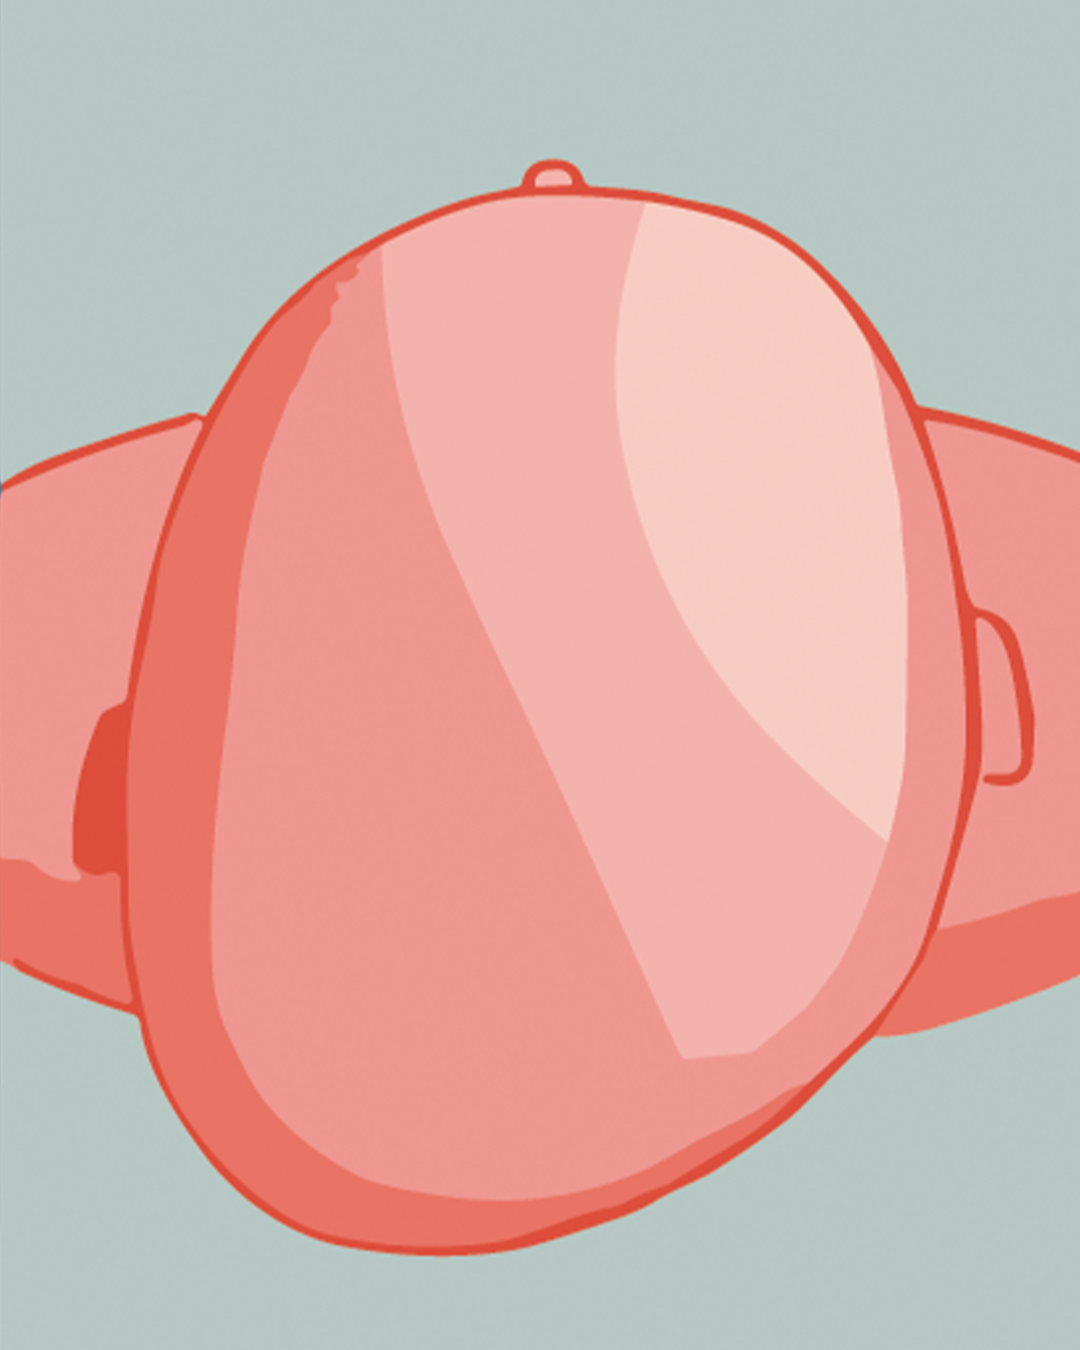
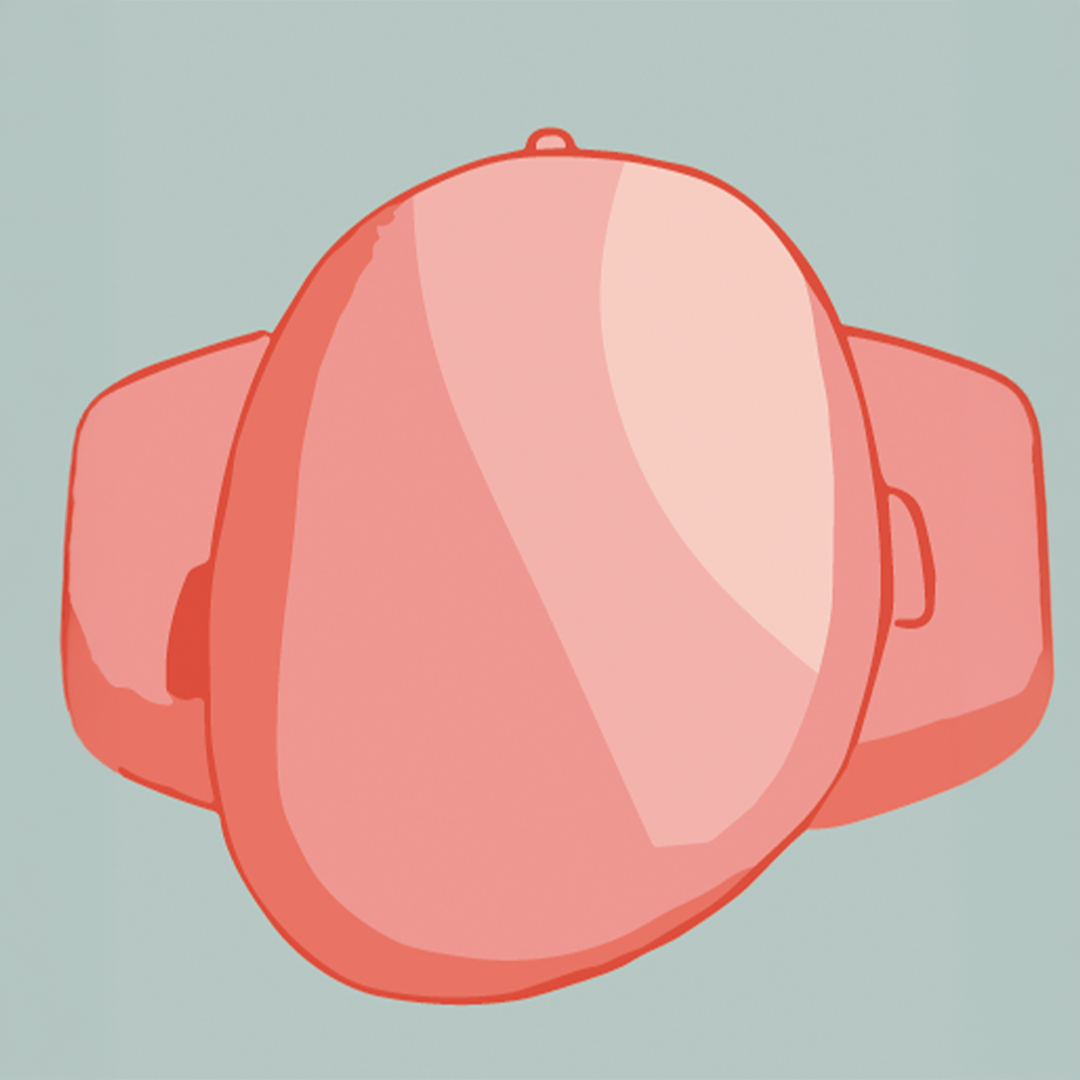
.

Changed region(s): [[0.0, 0.1222, 0.4889, 0.9472], [0.5194, 0.1222, 1.0, 0.9167], [0.5194, 0.6111, 0.55, 0.6417]]

diff --git a/src/components/Tratamentos.jsx b/src/components/Tratamentos.jsx
@@ -10,18 +10,18 @@ const CARDS = [
     desc: 'Diagnóstico preciso e tratamento especializado para as duas condições mais comuns nos primeiros meses de vida — com escaneamento 3D e plano individualizado.',
   },
   {
+    to: '/intervencao-precoce',
+    tag: 'Desenvolvimento infantil',
+    badge: '0 — 3 anos',
+    title: 'Estimulação Precoce',
+    desc: 'Acompanhamento especializado para bebês e crianças com atraso ou risco de atraso no desenvolvimento neuropsicomotor — com participação ativa da família.',
+  },
+  {
     to: '/consultoria-do-sono',
     tag: 'Para a família toda',
     badge: '0 — 5 anos',
     title: 'Consultoria do Sono',
     desc: 'Orientação especializada para construir rotinas de sono saudáveis e autônomas, respeitando o ritmo e a fase do seu bebê — sem métodos rígidos.',
-  },
-  {
-    to: '/intervencao-precoce',
-    tag: 'Desenvolvimento infantil',
-    badge: '0 — 3 anos',
-    title: 'Intervenção Precoce',
-    desc: 'Acompanhamento especializado para bebês e crianças com atraso ou risco de atraso no desenvolvimento neuropsicomotor — com participação ativa da família.',
   },
 ]
 

diff --git a/src/components/Servico2.jsx b/src/components/Servico2.jsx
@@ -11,9 +11,9 @@ const STEPS = [
 
 const HIGHLIGHTS = [
   'Confeccionada em tecnologia 3D — maior precisão que órteses convencionais.',
-  'Mais leve e ventilada — mais conforto para o bebê durante o uso.',
+  'Mais leve e ventilada, com espuma interna macia e de alta qualidade — mais conforto para o bebê durante o uso.',
   'Escaneamento 3D a cada 3 semanas para monitorar a evolução com dados exatos.',
-  'Única profissional da Bahia a oferecer o tratamento completo com essa tecnologia.',
+  'Única profissional da Bahia a oferecer o tratamento completo com a órtese Cmoon',
 ]
 
 export function Servico2() {
@@ -23,7 +23,7 @@ export function Servico2() {
         {/* Header */}
         <div className="mb-14">
           <span className="block text-[11px] tracking-[0.16em] uppercase text-gold-light font-semibold mb-[18px]">
-            Órtese Craniana 3D Cmoon · 5 a 18 meses
+            Órtese Craniana 3D Cmoon · 7 a 18 meses
           </span>
           <h2 className="font-head text-[clamp(30px,4vw,52px)] leading-[1.1] tracking-[-0.018em] font-semibold text-white">
             A tecnologia mais avançada para a correção da assimetria —{' '}
@@ -35,10 +35,10 @@ export function Servico2() {
           <Reveal>
             <div className="border-t-2 border-gold-light/30 pt-7 mb-7">
               <p className="text-[12px] tracking-[0.14em] uppercase text-gold-light font-semibold mb-4">
-                6 — 18 meses · assimetria moderada a severa
+                7 — 18 meses · assimetria moderada a severa
               </p>
               <p className="text-[17px] text-white/80 leading-[1.68] max-w-[52ch]">
-                A partir dos 6 meses, o bebê ganha mobilidade — o que reduz a eficácia do reposicionamento. A Órtese
+                A partir dos 7 meses, o bebê ganha mobilidade e os ossos ficam mais calcificados e menos maleáveis — o que reduz a eficácia do reposicionamento. A Órtese
                 Craniana 3D Cmoon age como um guia de crescimento: cria espaço nas áreas achatadas e contém o crescimento
                 nas áreas proeminentes, direcionando o desenvolvimento para o formato simétrico. Monitorada a cada três
                 semanas com escaneamento 3D.
@@ -73,7 +73,6 @@ export function Servico2() {
             <div className="mt-8 p-7 bg-white/[0.06] border border-white/14 rounded-lg">
               <p className="text-[10.5px] tracking-[0.16em] uppercase text-gold-light font-semibold mb-3.5">Investimento</p>
               {[
-                ['Avaliação com escaneamento 3D', 'R$ 310,00'],
                 ['Tratamento completo — à vista', 'R$ 13.700,00'],
                 ['Tratamento parcelado (até 10×)', 'R$ 15.000,00'],
               ].map(([label, value], i, arr) => (
@@ -83,7 +82,7 @@ export function Servico2() {
                 </div>
               ))}
               <p className="text-[12.5px] text-white/55 mt-3.5 leading-[1.5]">
-                Inclui avaliação, confecção da órtese e todos os escaneamentos de acompanhamento até a alta.
+              Inclui avaliação, todos os ajustes da órtese e os escaneamentos de acompanhamento até a alta
               </p>
               <div className="mt-5">
                 <a

diff --git a/src/components/CTAFinal.jsx b/src/components/CTAFinal.jsx
@@ -70,16 +70,6 @@ export function CTAFinal() {
                 ))}
               </ul>
             </div>
-            <div className="block">
-              <a
-                href={waLink('geral')}
-                target="_blank"
-                rel="noopener noreferrer"
-                className="inline-flex items-center gap-2 px-6 py-3.5 rounded-full font-semibold text-[14.5px] bg-white border border-border text-ink hover:bg-sage-pale transition-colors duration-200"
-              >
-                <WaIcon size={16} /> Agendar pelo WhatsApp
-              </a>
-            </div>
           </Reveal>
         </div>
       </div>

diff --git a/src/components/Servico1.jsx b/src/components/Servico1.jsx
@@ -28,7 +28,7 @@ export function Servico1() {
           <Reveal>
             <div className="border-t-2 border-ink-mid pt-7 mb-7">
               <p className="text-[12px] tracking-[0.14em] uppercase text-sage-dark font-semibold mb-4">
-                0 — 6 meses · assimetria leve a moderada
+                0 — 6 meses · assimetria leve a severa
               </p>
               <p className="text-[17px] text-ink-mid leading-[1.68] max-w-[52ch]">
                 Para bebês de até 6 meses, a fisioterapia especializada combinada com técnicas de reposicionamento em
@@ -57,9 +57,9 @@ export function Servico1() {
                 <span className="font-head text-[22px] italic font-semibold text-ink">R$ 310,00</span>
               </div>
               <div className="flex justify-between items-baseline py-2.5 gap-3 flex-wrap">
-                <span className="text-[14.5px] text-ink-mid">Sessões de fisioterapia (mensal)</span>
+                <span className="text-[14.5px] text-ink-mid">Sessões de fisioterapia</span>
                 <span className="font-head text-[22px] italic font-semibold text-ink">
-                  R$ 310,00<span className="text-[14px] text-ink-soft font-normal font-body not-italic"> /mês</span>
+                  R$ 210,00
                 </span>
               </div>
               <p className="text-[12.5px] text-ink-soft mt-3.5 leading-[1.5]">
@@ -82,7 +82,7 @@ export function Servico1() {
           <Reveal>
             <div className="relative aspect-[4/5] bg-sage-pale border border-border rounded overflow-hidden">
               <img
-                src="/fisioterapia.png"
+                src="/fisioterapia.jpeg"
                 alt="Sessão de fisioterapia pediátrica"
                 className="absolute inset-0 w-full h-full object-cover"
               />

diff --git a/src/components/Diferenciais.jsx b/src/components/Diferenciais.jsx
@@ -1,9 +1,9 @@
 import { Reveal } from './Reveal'
 
 const DIFFS = [
-  { idx: '01 / Precisão',      title: 'Escaneamento 3D — o mais preciso', em: 'do mercado',          desc: 'Enquanto a maioria das clínicas ainda avalia o crânio manualmente, o escaneamento tridimensional é usado em todas as etapas — do diagnóstico ao acompanhamento. Dados precisos, decisões seguras, resultados mensuráveis.' },
-  { idx: '02 / Pioneirismo',   title: 'Pioneira na Bahia',                em: 'com a Cmoon',         desc: 'Primeira profissional da Bahia a oferecer o tratamento completo com a Órtese Craniana 3D Cmoon. Uma experiência acumulada que não se improvisa.' },
-  { idx: '03 / Experiência',   title: '+20 anos',                         em: 'de prática pediátrica', desc: 'Mais de duas décadas dedicadas exclusivamente ao cuidado de bebês e crianças. Cada família encontra uma profissional que já viu — e tratou — centenas de casos parecidos.' },
+  { idx: '01 / Precisão',      title: 'Escaneamento 3D — o mais preciso', em: 'do mercado',          desc: 'Enquanto a maioria das clínicas ainda avalia o crânio manualmente, o escaneamento tridimensional é usado em todas as etapas — do diagnóstico a confecção da órtese e o acompanhamento. Dados precisos, decisões seguras, resultados mensuráveis.' },
+  { idx: '02 / Pioneirismo',   title: 'Pioneira na Bahia',                em: 'com a Cmoon',         desc: 'Primeira profissional da Bahia a oferecer o tratamento completo com a Órtese Craniana 3D Cmoon.' },
+  { idx: '03 / Experiência',   title: '+20 anos',                         em: 'de prática pediátrica', desc: 'Uma profissional com experiência à mais de duas décadas dedicadas exclusivamente ao cuidado de bebês e crianças. Cada família encontra uma profissional que já viu — e tratou — centenas de casos parecidos.' },
   { idx: '04 / Alcance',       title: 'Atendimento em',                   em: 'Salvador',     desc: 'A clínica fica em Salvador (BA), mas atendo famílias de toda a Bahia. Se você não é de Salvador, podemos organizar a avaliação e os retornos de forma prática, sem complicar a sua rotina.' },
   { idx: '05 / Acessibilidade',title: 'O preço mais acessível',           em: 'para esse nível de serviço', desc: 'Tecnologia 3D de ponta com investimento que cabe no planejamento. Nenhuma outra clínica na Bahia oferece o mesmo nível de serviço e tecnologia pelo mesmo valor.' },
   { idx: '06 / Cuidado',       title: 'Atendimento humanizado',           em: 'e personalizado',     desc: 'Não trato crânios — trato famílias. Cada bebê recebe um plano único. A mãe nunca sai de uma consulta sem saber exatamente o que está acontecendo e o que fazer.' },

diff --git a/src/pages/ConsultoriaDoSono.jsx b/src/pages/ConsultoriaDoSono.jsx
@@ -67,7 +67,7 @@ export default function ConsultoriaDoSono() {
             rel="noopener noreferrer"
             className="inline-flex items-center gap-2.5 px-7 py-4 rounded-full font-semibold text-[15px] bg-sage text-white shadow-[0_4px_18px_rgba(107,174,214,.35)] hover:bg-sage-dark hover:-translate-y-0.5 transition-all duration-200"
           >
-            <WaIcon size={16} /> Falar com a Dra. Viviane pelo WhatsApp
+            <WaIcon size={16} /> Falar com a Viviane pelo WhatsApp
           </a>
         </div>
       </section>
@@ -188,10 +188,10 @@ export default function ConsultoriaDoSono() {
           <Reveal>
             <h2 className="font-head text-[clamp(26px,3.5vw,44px)] leading-[1.1] tracking-[-0.018em] font-semibold text-white mb-6">
               Por que fazer a consultoria com a{' '}
-              <em className="italic text-sage-light font-medium">Dra. Viviane?</em>
+              <em className="italic text-sage-light font-medium">Viviane?</em>
             </h2>
             <p className="text-[17px] text-white/70 leading-[1.75] max-w-[62ch] mb-5">
-              Sou fisioterapeuta pediátrica com mais de 20 anos de experiência no cuidado de bebês — o que me permite olhar para o sono com uma perspectiva mais ampla: desenvolvimento motor, neurológico, alimentar e emocional fazem parte do quadro.
+              Com mais de 20 anos de experiência no cuidado de bebês — o que me permite olhar para o sono com uma perspectiva mais ampla: desenvolvimento motor, neurológico, alimentar e emocional fazem parte do quadro.
             </p>
             <p className="text-[17px] text-white/70 leading-[1.75] max-w-[62ch] mb-12">
               A consultoria não é sobre método — é sobre o seu bebê. Cada plano é construído do zero, com escuta, ciência e respeito pelo ritmo de cada família.

diff --git a/src/components/Hero.jsx b/src/components/Hero.jsx
@@ -22,7 +22,7 @@ export function Hero() {
           <Reveal>
             <p className="flex items-center gap-2.5 text-[11.5px] tracking-[0.18em] uppercase text-gold font-semibold mb-7
               before:inline-block before:w-7 before:h-px before:bg-gold">
-              Pioneira na Bahia · Escaneamento 3D
+              Escaneamento e Órtese Crâniana 3D
             </p>
 
             <h1 className="font-head text-[clamp(40px,6vw,80px)] leading-[1.05] tracking-[-0.025em] font-semibold text-white mb-7">
@@ -31,7 +31,7 @@ export function Hero() {
             </h1>
 
             <p className="text-[18px] text-white/82 max-w-[54ch] mb-9 leading-[1.7]">
-              Fisioterapia pediátrica com mais de 20 anos de experiência. Diagnóstico com escaneamento 3D
+              Fisioterapeuta pediátrica com mais de 20 anos de experiência. Diagnóstico com escaneamento 3D
               e tratamento individualizado — do reposicionamento à Órtese Craniana Cmoon.
             </p>
 

diff --git a/src/components/Sobre.jsx b/src/components/Sobre.jsx
@@ -41,14 +41,14 @@ export function Sobre() {
             <div className="space-y-[18px] text-[17.5px] leading-[1.68] text-ink-mid">
               <p>
                 Sou <strong>Viviane Leite</strong>, fisioterapeuta pediátrica formada e apaixonada por cuidar dos bebês
-                desde o início da vida. Atuo na área desde 2005 e me especializei no diagnóstico e tratamento de
+                desde o início da vida. Atuo na área desde 2005 com estimulação precoce e me especializei no diagnóstico e tratamento de
                 assimetrias cranianas — uma condição muito mais comum do que se imagina, e com solução quando identificada
                 no momento certo.
               </p>
               <p>
                 Fui a <strong>primeira fisioterapeuta da Bahia</strong> a oferecer o tratamento completo com a Órtese
                 Craniana 3D Cmoon, com avaliação e acompanhamento por escaneamento tridimensional — a tecnologia mais
-                precisa disponível hoje para o tratamento das assimetrias cranianas em bebês.
+                precisa disponível hoje para a avaliação das assimetrias cranianas em bebês.
               </p>
               <p>
                 Cada bebê é único. Por isso, trato cada caso com escuta ativa, tecnologia de ponta e um olhar clínico

diff --git a/src/components/Processo.jsx b/src/components/Processo.jsx
@@ -4,7 +4,7 @@ import { waLink } from '../lib/wa'
 
 const STEPS = [
   { n: '01', title: 'Contato pelo WhatsApp',        desc: 'Você entra em contato, me conta a situação do bebê e agendamos a avaliação. Respondo pessoalmente todas as mensagens.' },
-  { n: '02', title: 'Avaliação com escaneamento 3D', desc: 'Escaneamento tridimensional + avaliação clínica completa. Explico o diagnóstico com clareza, mostro o mapa do crânio e apresento o plano ideal.' },
+  { n: '02', title: 'Avaliação com escaneamento 3D', desc: 'Escaneamento tridimensional + avaliação clínica completa do bebê. Explico o diagnóstico com clareza, mostro o mapa do crânio e apresento o plano ideal.' },
   { n: '03', title: 'Início do tratamento',          desc: 'Dependendo da idade e do grau, iniciamos a fisioterapia e/ou o processo de confecção da órtese. Você recebe todas as orientações de casa.' },
   { n: '04', title: 'Acompanhamento e alta',         desc: 'Monitoro a evolução com escaneamentos regulares e faço os ajustes necessários até o resultado esperado — quando concedo a alta com segurança.' },
 ]